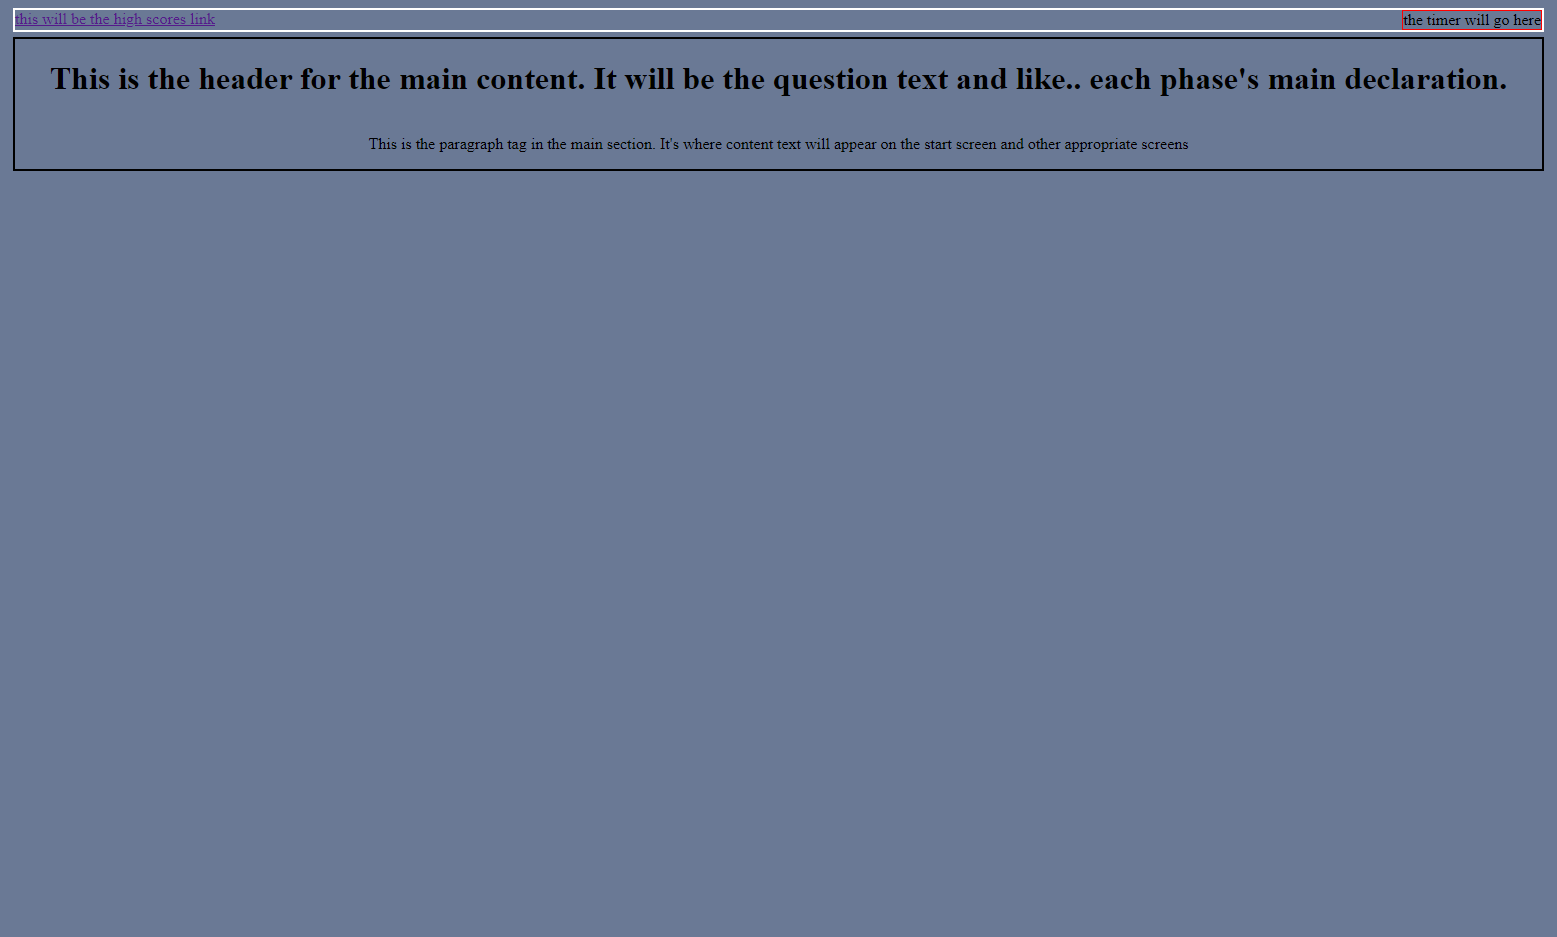
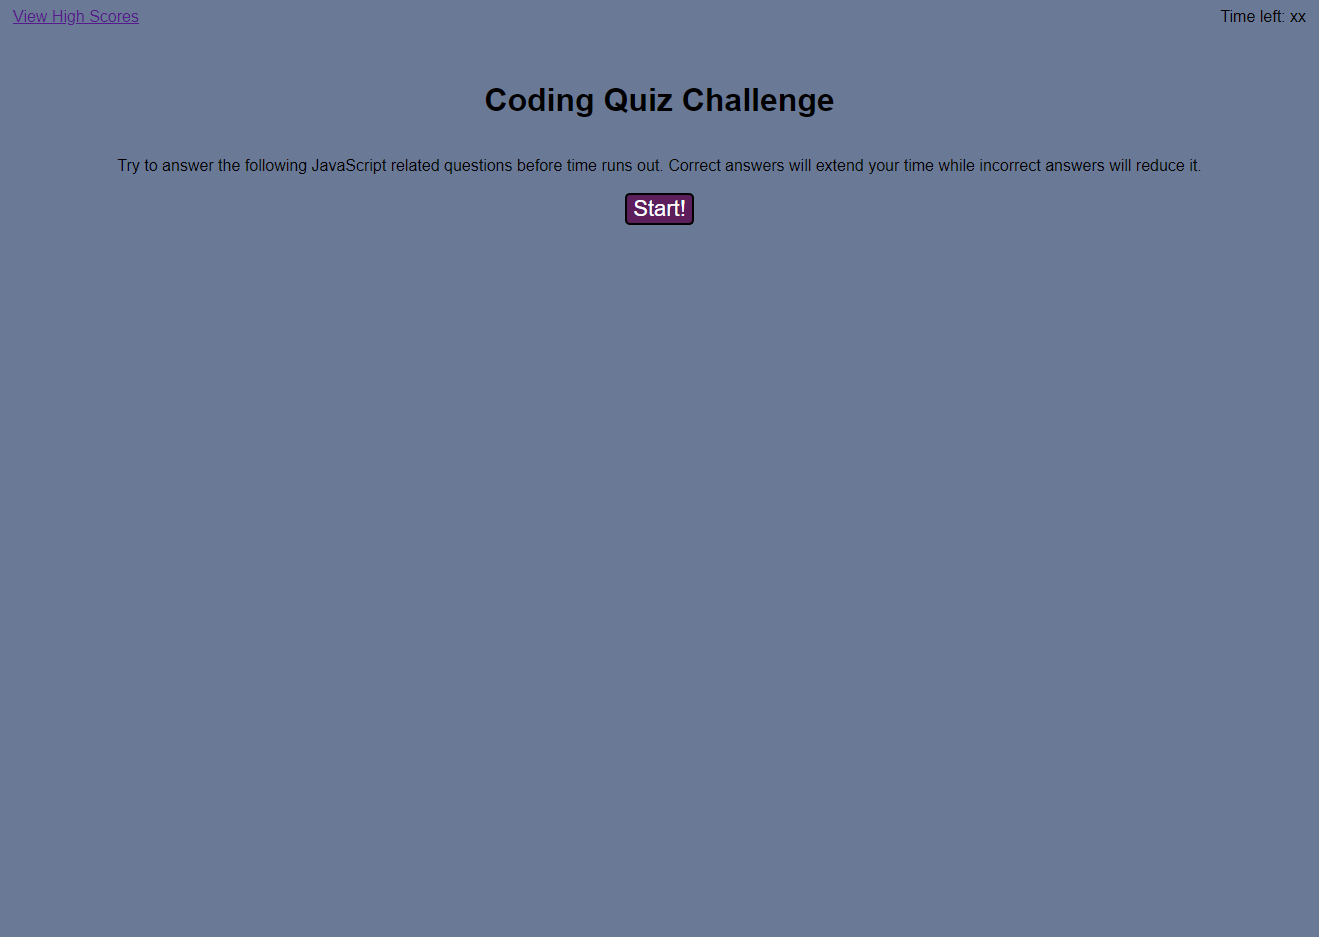
MVP complete, methinks.

Changed region(s): [[0.0, 0.0, 0.9947, 0.1238], [0.0933, 0.1547, 0.9325, 0.2476], [0.9636, 0.1547, 0.9947, 0.1857]]

diff --git a/assets/js/main.js b/assets/js/main.js
@@ -59,7 +59,7 @@ var answered = 0;
 
 // core text content
 
-anchorEl.textContent = "this will be the high scores link";
+anchorEl.textContent = "View High Scores";
 navDivTime.textContent = "Time left: " + timeLeft;
 h1El.textContent = "Coding Quiz Challenge";
 pEl.textContent = "Try to answer the following JavaScript related questions before time runs out. Correct answers will extend your time while incorrect answers will reduce it.";
@@ -106,12 +106,13 @@ buttonDiv.appendChild(homeButton);
 // setting up attributes for the appended elements
 
 body.setAttribute("style", "background: rgb(106, 121, 149); height: 95vh;");
-header.setAttribute("style", "margin: 5px; border: 2px solid white")
-mainDiv.setAttribute("style", "padding: 30px; border: 2px solid black; margin: 5px; display: flex; justify-content: center; align-items: center; flex-direction: column;");
+header.setAttribute("style", "margin: 5px")
+mainDiv.setAttribute("style", "padding: 30px; margin: 5px; display: flex; justify-content: center; align-items: center; flex-direction: column;");
 mainDiv.setAttribute("class", "mainDiv");
 mainDiv.setAttribute("id", "mainDiv");
 h1El.setAttribute("id", "mainDivH1");
 pEl.setAttribute("id", "mainDivP");
+anchorEl.setAttribute("id", "aEl");
 scoreP0.setAttribute("class", "hide-me");
 scoreP1.setAttribute("class", "hide-me");
 scoreP2.setAttribute("class", "hide-me");
@@ -141,11 +142,14 @@ homeButton.setAttribute("class", "hide-me");
 usernameSubmit.setAttribute("class", "hide-me");
 homeButton.setAttribute("class", "hide-me");
 navEl.setAttribute("style", "display: flex; justify-content: space-between;");
-navDivTime.setAttribute("style", "border: solid 1px red")
 resultDiv.setAttribute("id", "resultDiv");
 resultDiv.setAttribute("class", "hide-me");
 // be sure to change the google placeholder link to a high scores link
-anchorEl.setAttribute("href", "https://www.google.com");
+anchorEl.setAttribute("href", "#mainDivP");
+
+// event listener to make the high scores link call the scores content function
+
+document.querySelector("#aEl").addEventListener("click", showScores);
 
 var questionsObj = {
   questions: ["Which of the following is the primary role of JavaScript in web design?", "What is the result of the operation 4 % 2?", "What does the pop() method do to an array?", "What will the console output if a user enters 'console.log(isNaN(5));?", "Which option increases the value of i by one each time it occurs?"]
@@ -218,6 +222,11 @@ function wrongAnswer() {
 // question functions 
 function question1() {
   // Q1's correct answer is [2]
+  // ensures function calls for testComplete are removed from prior tests
+  a1Button.removeEventListener("click", testComplete);
+  a2Button.removeEventListener("click", testComplete);
+  a3Button.removeEventListener("click", testComplete);
+  a4Button.removeEventListener("click", testComplete);
   pEl.textContent = questionsObj.questions[0];
   a1Button.textContent = "1. " + answersObj.q0[0];
   a2Button.textContent = "2. " + answersObj.q0[1];
@@ -356,12 +365,7 @@ function testComplete() {
 
   // this function's final line should call the function to display tester name input. leave resultDiv at first.
   nameEntry();
-
-  // console logs for testing
-  console.log("score = " + myScore);
   myScore = myScore * timeLeft;
-  console.log("write me bro");
-  console.log("Your score plus your time bonus is: " + myScore);
 }
 // function that runs if the user runs out of time.
 
@@ -386,13 +390,16 @@ function nameEntry() {
   scoresDiv.setAttribute("class", "");
   usernameEntry.setAttribute("class", "");
   usernameSubmit.setAttribute("class", "button");
+  a1Button.setAttribute("class", "hide-me");
+  a2Button.setAttribute("class", "hide-me");
+  a3Button.setAttribute("class", "hide-me");
+  a4Button.setAttribute("class", "hide-me");
 }
 
 // function to collect user's name then push the input to local storage once name is submitted
 
 usernameSubmit.addEventListener("click", collectUsername)
 function collectUsername() {
-  console.log("write me too, bro");
 
   var username = document.querySelector("#usernameEntry").value
 
@@ -471,7 +478,9 @@ function showScores() {
   scoreP4.setAttribute("class", "");
   scoreP4.textContent = scoreKeeper.name[4] + " - " + scoreKeeper.score[4];
   } else {
-    console.log("something went wrong there, boss");
+    startButton.setAttribute("class", "hide-me");
+    scoreP0.setAttribute("class", "");
+    scoreP0.textContent = "You'll have to get some scores first, boss.";
   }
 }
 
@@ -494,6 +503,9 @@ homeButton.addEventListener("click", function goHome() {
   scoreP3.setAttribute("class", "hide-me");
   scoreP4.setAttribute("class", "hide-me");
   pEl.setAttribute("class", "");
+  resultDiv.textContent = "";
+  timerStopper = 0;
+
   // add loop(s) to clear any event listeners still on answer buttons
 });
 
@@ -501,6 +513,7 @@ homeButton.addEventListener("click", function goHome() {
 Thoughts for future functionality
 ---------------
 - loop(s) for mass class assignment, specifically hide/reveal functionality given all of the appends
+- loop to ensure that event listeners are cleared from test answer buttons
 - loop(s) or generally more efficient design for button reassignment in question functions
 - add functionality to sort the scoreKeeper values
 - never ever ever design something like this without editing the base HTML ever again
